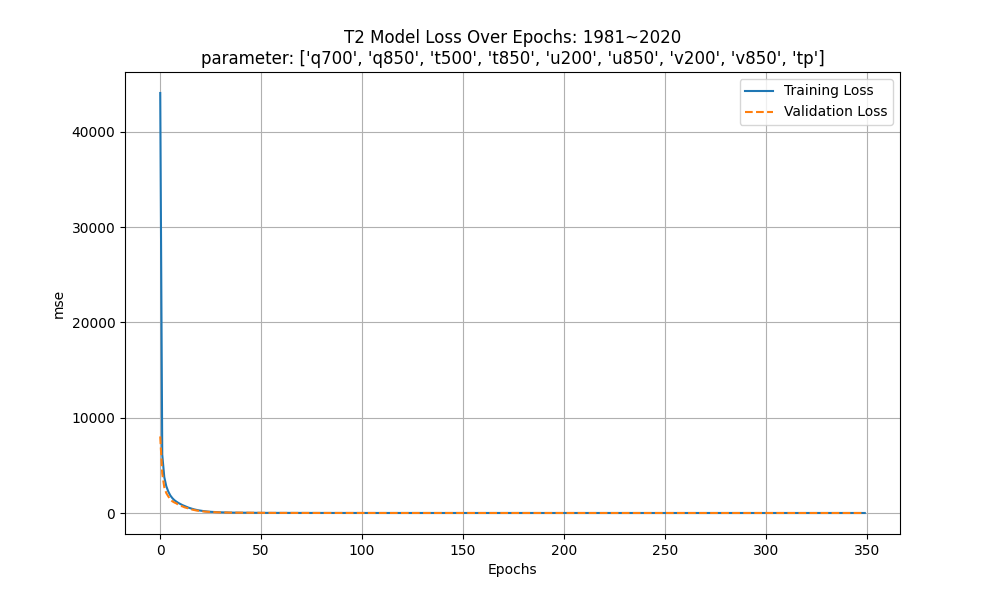
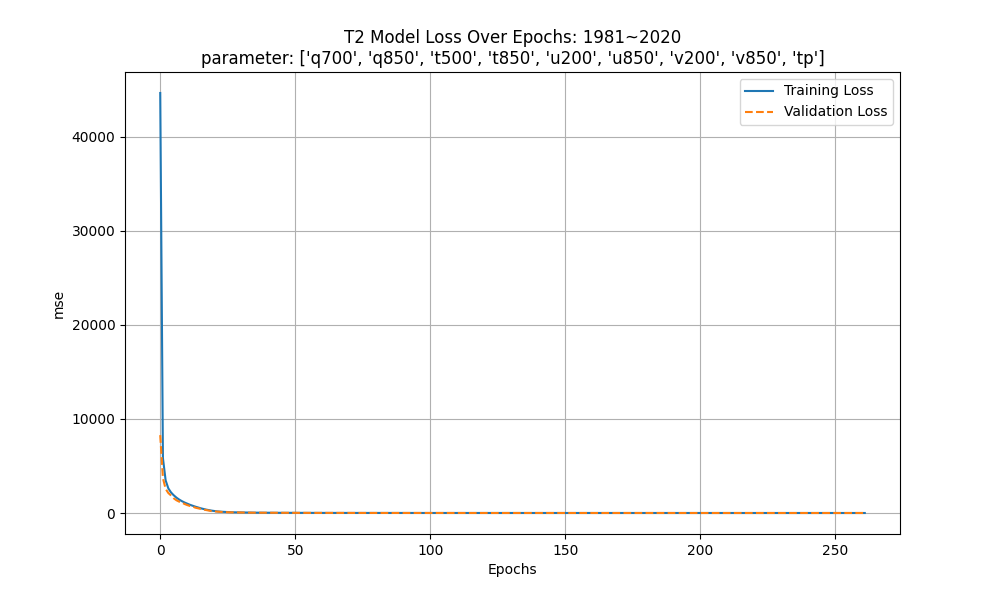
update Eu config

diff --git a/Eu/inference.py b/Eu/inference.py
@@ -24,6 +24,11 @@ parser.add_argument('--years', type=str, default='')
 parser.add_argument('--scale', type=bool, default='True')
 parser.add_argument('--bias_correction', type=str, default='False')
 parser.add_argument('--modelPath', type=str, default='')
+parser.add_argument('--predictand_base', type=str, default='', help='path to TReAD')
+parser.add_argument('--predictor_base', type=str, default='', help='path to ERA5')
+parser.add_argument('--x_data', type=str, default='/work/moose1108/corrdiff-like/data/1981_2022.nc', help='path to self-constructed ERA5')
+parser.add_argument('--landmask_data', type=str, default='/work/moose1108/corrdiff-like/data/02-predictand_TReAD/TReAD_Regrid_2km_landmask.nc', help='path to landmask data')
+parser.add_argument('--template_predictand', type=str, help='just pick a year of TreAD data')
 args = parser.parse_args()
 
 variables = args.variables
@@ -38,6 +43,12 @@ bias_correction = args.bias_correction
 modelPath = args.modelPath
 variables_str = args.variables_str
 years = args.years
+predictand_base = args.predictand_base
+predictor_base = args.predictor_base
+x_data = args.x_data
+landmask_data = args.landmask_data
+template_predictand = args.template_predictand
+a = xr.open_dataset(x_data)
 
 print('===== training settings =====')
 print(f'variables: {variables}')
@@ -50,7 +61,7 @@ def is_leap_year(year):
     return year % 4 == 0 and (year % 100 != 0 or year % 400 == 0)
 
 print('===== concat predictand =====')
-predictand_base_path = f'/work/moose1108/corrdiff-like/data/02-predictand_TReAD/{predictand}/'
+predictand_base_path = predictand_base + predictand + '/'
 yearly_ys = []
 for year in tqdm.tqdm(range(int(start_year), int(end_year)+1)):
     file_path = f'{predictand_base_path}TReAD_daily_{year}_{predictand}.nc'
@@ -65,7 +76,6 @@ print(f'latitude range: {min_lat}~{max_lat}')
 print(f'longitude range: {min_lon}~{max_lon}')
 
 print('===== concat predictor base data =====')
-base_path = '/work/moose1108/corrdiff-like/data/01-predictor_ERA5/'
 
 data_values = {var: [] for var in variables}
 coordinates = {'time': [], 'latitude': None, 'longitude': None}
@@ -74,10 +84,10 @@ for var in variables:
     for year in tqdm.tqdm(range(int(years), int(years)+1)):
         for month in range(1, 13):
             if var in ['q700', 'q850', 't500', 't850', 'u200', 'u850', 'v200', 'v850', 'w850']:
-                file_path = f'{base_path}{var}/{str(year)}/ERA5_PRS_{var}_{str(year)}{month:02}_r1440x721_day.nc'
+                file_path = f'{predictor_base}{var}/{str(year)}/ERA5_PRS_{var}_{str(year)}{month:02}_r1440x721_day.nc'
             else:
-                file_path = f'{base_path}{var}/{str(year)}/ERA5_SFC_{var}_{str(year)}{month:02}_r1440x721_day.nc'
-            # file_path = f'{base_path}{var}/{str(year)}/ERA5_PRS_{var}_{str(year)}{month:02}_r1440x721_day.nc'
+                file_path = f'{predictor_base}{var}/{str(year)}/ERA5_SFC_{var}_{str(year)}{month:02}_r1440x721_day.nc'
+            # file_path = f'{predictor_base}{var}/{str(year)}/ERA5_PRS_{var}_{str(year)}{month:02}_r1440x721_day.nc'
             dataset = xr.open_dataset(file_path)
             if is_leap_year(year) and month == 2:
                 dataset = dataset.sel(time=~((dataset.time.dt.month == 2) & (dataset.time.dt.day == 29)))
@@ -103,7 +113,8 @@ new_data_arrays = {var: xr.DataArray(data=data_values[var],
 
 x = xr.Dataset(new_data_arrays)
 
-base = xr.open_dataset(f'/work/moose1108/corrdiff-like/data/1981_2022.nc')
+base = xr.open_dataset(x_data)
+base = base.sel(time=(base['time'].dt.year >= 1981) & (base['time'].dt.year <= 2020))
 base = base[variables]
 base = base.sel(latitude=slice(max_lat, min_lat), longitude=slice(min_lon, max_lon))
 x = x.sel(latitude=slice(max_lat, min_lat), longitude=slice(min_lon, max_lon))
@@ -125,7 +136,7 @@ x_array = x.to_stacked_array("var", sample_dims = ["latitude", "longitude", "tim
 pred = model.predict(x_array)
 
 ## Reshaping the prediction to a latitude-longitude grid
-mask = xr.open_dataset('/work/moose1108/corrdiff-like/data/02-predictand_TReAD/TReAD_Regrid_2km_landmask.nc')
+mask = xr.open_dataset(landmask_data)
 if topology == 'deepesd':
     mask.landmask.values[mask.landmask.values == 0] = np.nan
     mask_Onedim = mask.landmask.values.reshape((np.prod(mask.landmask.shape)))
@@ -155,7 +166,7 @@ if predictand == 'RAINNC':
     pred = pred_bin * pred_amo
     pred = pred.values
 
-template_predictand = xr.open_dataset('/work/moose1108/corrdiff-like/data/02-predictand_TReAD/RAINNC/TReAD_daily_2009_RAINNC.nc')
+template_predictand = xr.open_dataset(template_predictand)
 pred = xr.Dataset(
     data_vars = {predictand: (['time','latitude','longitude'], pred)},
     coords = {'longitude': template_predictand.Lon.values, 'latitude': template_predictand.Lat.values, 'time': x.time.values},

diff --git a/Eu/train.py b/Eu/train.py
@@ -23,7 +23,7 @@ parser.add_argument('--end_year', type=str, default='', help='end year')
 parser.add_argument('--modelPath', type=str, default='', help='model path')
 parser.add_argument('--variables_str', type=str, default='', help='variables string')
 parser.add_argument('--scale', type=bool, help='scale')
-parser.add_argument('--predictor_data', type=str, default='', help='Path to predictors')
+parser.add_argument('--x_data', type=str, default='/work/moose1108/corrdiff-like/data/1981_2022.nc', help='path to self-constructed ERA5')
 parser.add_argument('--predictand_data', type=str, default='', help='Path to predictands')
 parser.add_argument('--landmask_data', type=str, default='', help='Path to landmask')
 parser.add_argument('--loss_path', type=str, default='', help='loss_path')
@@ -41,7 +41,7 @@ end_year = args.end_year
 modelPath = args.modelPath
 variables_str = args.variables_str
 scale = args.scale
-predictor_data = args.predictor_data
+x_data = args.x_data
 predictand_data = args.predictand_data
 landmask_data = args.landmask_data
 loss_path = args.loss_path
@@ -77,7 +77,7 @@ print(f'latitude range: {min_lat}~{max_lat}')
 print(f'longitude range: {min_lon}~{max_lon}')
 
 print('===== concat predictor =====')
-x = xr.open_dataset(f'/work/moose1108/corrdiff-like/data/1981_2022.nc')
+x = xr.open_dataset(x_data)
 x = x.sel(time=slice(f'{start_year}-01-01', f'{end_year}-12-31'))
 print(x)
 if 'tp' in variables:
@@ -89,7 +89,7 @@ print("===== scaling =====")
 if scale is True:
 	filtered_x = scaleGrid(filtered_x, base = filtered_x, type = 'standardize', spatialFrame = 'gridbox')
 print(y)
-a = input()
+
 if predictand == 'RAINNC':
     y = y * 24
     y = binaryGrid(y, condition = 'GE', threshold = 1, partial = True)

diff --git a/Eu/README.md b/Eu/README.md
@@ -15,26 +15,43 @@
 ## Parameter Description
 In `train.sh`, the following key variables are defined:
 - `variables`: List of meteorological variables (e.g., `w850 q700 q850 t500`).
-- `predictand`: The target variable (e.g., `RAINNC`, `T2`).
+- `predictand`: The model predicts a specific climate variable. (e.g., `RAINNC`, `T2`).
 - `topology`: Model architecture, default is `deepesd`.
 - `approach`: Methodology, default is `MOS-E`.
 - `start_year`, `end_year`: The training data time range.
 - `scale`: Whether to standardize the data.
-- `predictor_data`, `predictand_data`: Paths to predictor and predictand datasets.
+- `x_data`" Path to self-constructed ERA5 dataset.
+- `predictand_data`: Path to predictand dataset.
 - `landmask_data`: Path to landmask dataset.
 - `loss_path`: Output path for the loss curve.
+- `modelPath`: The path where the trained model is saved.
 
 In `inference.sh`, the following key variables are defined:
+- `variables`: List of input meteorological variables (e.g., `q700 q850 t500`).
+- `predictand`: The target variable to be predicted (e.g., `RAINNC`).
+- `topology`: The model architecture (e.g., `deepesd`).
+- `approach`: Downscaling methodology (e.g., `MOS-E`).
+- `start_year`, `end_year`: Defines the period used for model training.
+- `years`: The year for which predictions are generated.
+- `scale`: Whether input data is standardized before feeding into the model.
+- `bias_correction`: Whether bias correction is applied.
+- `modelPath`: Path to the trained model file.
+- `predictand_data`: Path to predictand dataset.
+- `landmask_data`: Path to landmask dataset.
+- `predictor_base`: The base directory for the predictor dataset.
+- `predictand_base`: The base directory for the predictand dataset.
+- `template_predictand`: The path to a sample predictand file used for structuring the output.
+- `outputFileName`: The file path where the inference results are stored.
 
-- `variables`: List of input meteorological variables (e.g., `q700 q850 t500`)
-- `predictand`: The target variable to be predicted (e.g., `RAINNC`)
-- `topology`: The model architecture (e.g., `deepesd`)
-- `approach`: Downscaling methodology (e.g., `MOS-E`)
-- `start_year`, `end_year`: Defines the period used for model training
-- `years`: The year for which predictions are generated
-- `scale`: Whether input data is standardized before feeding into the model
-- `bias_correction`: Whether bias correction is applied
-- `modelPath`: Path to the trained model file
+In `plot.sh`, the following key variables are defined:
+- `predict_year`: the year for which the predictions and ground truth will be plotted. In this case, it is set to 2022.
+- `model`: the name of the trained model being used for plotting. It is constructed using the topology, variables, training period, inference year, and a version suffix (e.g., "deepesd_q700q850t500t850u200u850v200v850tp_1981_2020_2022_3_b").
+- `predictand`: the target variable to be predicted and plotted (e.g., T2 for 2-meter temperature or another variable).
+- `predict_path`: the file path to the NetCDF file containing the model predictions. This file is located under the predictions directory for the given predictand and model.
+- `gt_path`: the file path to the NetCDF file containing the ground truth data. It is located in the directory with TReAD data for the specified predictand and year.
+- `plot_path`: the file path where the generated plot will be saved.
+- `landmask_data`: the file path to the landmask NetCDF file that is used to mask out sea areas in the plots.
+
 
 ## Usage
 ### 1. Start Training
@@ -58,7 +75,7 @@ bash inference.sh
     |  | Corr | RMSE | MAE |
     |----------|----------|----------|----------|
     | RAINNC   |  0.48  |  8.84  | 4.49 |
-    | T2   |  0.994  |  0.701  | 0.573 |
+    | T2   |  0.993  |  0.828  | 0.690 |
 
 
 ## Notes

diff --git a/README.md b/README.md
@@ -3,8 +3,8 @@ This documentation details the utilization of a CNN-based deep learning script f
 
 ## Directory Structure
 ```
-├── Eu/
-├── NZ/
+├── Eu/                 # codes adapted from 2024_Bano_Emulators_AIES
+├── NZ/                 # codes adapted from high-resolution-downscaling
 ├── .gitignore
 ├──README.md
 └── environment.yml
